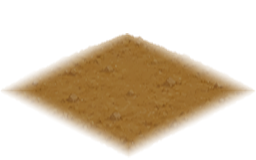
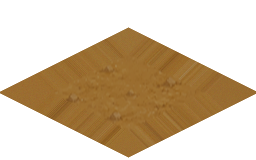
Fix isometric tile borders: remove discolored edges and apply seamless master diamond mask across Playa, Aldea, Hielo, Nieve, Rio, and Cementerio

Changed region(s): [[0.0, 0.1562, 1.0, 1.0]]

diff --git a/js/main.js b/js/main.js
@@ -292,34 +292,34 @@ const imageUrls = {
     tile_grass_forest: 'Biomas/Tiles/hd/grass_forest.png',
     tile_grass_gold: 'Biomas/Tiles/hd/grass_gold.png',
     tile_grass_olive: 'Biomas/Tiles/hd/grass_olive.png',
-    tile_dirt_1: 'Biomas/Tiles/hd/dirt_1.png',
-    tile_dirt_2: 'Biomas/Tiles/hd/dirt_2.png',
-    tile_dirt_cracked: 'Biomas/Tiles/hd/dirt_cracked.png',
-    tile_water_1: 'Biomas/Tiles/hd/water_1.png',
-    tile_water_2: 'Biomas/Tiles/hd/water_2.png',
-    tile_water_lily: 'Biomas/Tiles/hd/water_lily.png',
-    tile_sand_1: 'Biomas/Tiles/hd/sand_1.png',
-    tile_sand_2: 'Biomas/Tiles/hd/sand_2.png',
-    tile_sand_flat: 'Biomas/Tiles/hd/sand_flat.png',
-    tile_sand_pebble: 'Biomas/Tiles/hd/sand_pebble.png',
-    tile_sand_tuft: 'Biomas/Tiles/hd/sand_tuft.png',
-    tile_desert_cracked: 'Biomas/Tiles/hd/desert_cracked.png',
-    tile_desert_shrub: 'Biomas/Tiles/hd/desert_shrub.png',
-    tile_cemetery_1: 'Biomas/Tiles/hd/cemetery_1.png',
-    tile_cemetery_2: 'Biomas/Tiles/hd/cemetery_2.png',
-    tile_cemetery_skull: 'Biomas/Tiles/hd/cemetery_skull.png',
-    tile_snow_1: 'Biomas/Tiles/hd/snow_1.png',
-    tile_snow_2: 'Biomas/Tiles/hd/snow_2.png',
-    tile_snow_tuft: 'Biomas/Tiles/hd/snow_tuft.png',
-    tile_ice_1: 'Biomas/Tiles/hd/ice_1.png',
-    tile_ice_2: 'Biomas/Tiles/hd/ice_2.png',
-    tile_ice_crystal: 'Biomas/Tiles/hd/ice_crystal.png',
+    tile_dirt_1: 'Biomas/Tiles/hd/dirt_1.png?v=20261111tiles',
+    tile_dirt_2: 'Biomas/Tiles/hd/dirt_2.png?v=20261111tiles',
+    tile_dirt_cracked: 'Biomas/Tiles/hd/dirt_cracked.png?v=20261111tiles',
+    tile_water_1: 'Biomas/Tiles/hd/water_1.png?v=20261111tiles',
+    tile_water_2: 'Biomas/Tiles/hd/water_2.png?v=20261111tiles',
+    tile_water_lily: 'Biomas/Tiles/hd/water_lily.png?v=20261111tiles',
+    tile_sand_1: 'Biomas/Tiles/hd/sand_1.png?v=20261111tiles',
+    tile_sand_2: 'Biomas/Tiles/hd/sand_2.png?v=20261111tiles',
+    tile_sand_flat: 'Biomas/Tiles/hd/sand_flat.png?v=20261111tiles',
+    tile_sand_pebble: 'Biomas/Tiles/hd/sand_pebble.png?v=20261111tiles',
+    tile_sand_tuft: 'Biomas/Tiles/hd/sand_tuft.png?v=20261111tiles',
+    tile_desert_cracked: 'Biomas/Tiles/hd/desert_cracked.png?v=20261111tiles',
+    tile_desert_shrub: 'Biomas/Tiles/hd/desert_shrub.png?v=20261111tiles',
+    tile_cemetery_1: 'Biomas/Tiles/hd/cemetery_1.png?v=20261111tiles',
+    tile_cemetery_2: 'Biomas/Tiles/hd/cemetery_2.png?v=20261111tiles',
+    tile_cemetery_skull: 'Biomas/Tiles/hd/cemetery_skull.png?v=20261111tiles',
+    tile_snow_1: 'Biomas/Tiles/hd/snow_1.png?v=20261111tiles',
+    tile_snow_2: 'Biomas/Tiles/hd/snow_2.png?v=20261111tiles',
+    tile_snow_tuft: 'Biomas/Tiles/hd/snow_tuft.png?v=20261111tiles',
+    tile_ice_1: 'Biomas/Tiles/hd/ice_1.png?v=20261111tiles',
+    tile_ice_2: 'Biomas/Tiles/hd/ice_2.png?v=20261111tiles',
+    tile_ice_crystal: 'Biomas/Tiles/hd/ice_crystal.png?v=20261111tiles',
     tile_magic_1: 'Biomas/Tiles/hd/magic_1.png',
     tile_magic_2: 'Biomas/Tiles/hd/magic_2.png',
     tile_magic_short: 'Biomas/Tiles/hd/magic_short.png',
-    tile_marsh_1: 'Biomas/Tiles/hd/marsh_1.png',
-    tile_marsh_2: 'Biomas/Tiles/hd/marsh_2.png',
-    tile_marsh_cracked: 'Biomas/Tiles/hd/marsh_cracked.png'
+    tile_marsh_1: 'Biomas/Tiles/hd/marsh_1.png?v=20261111tiles',
+    tile_marsh_2: 'Biomas/Tiles/hd/marsh_2.png?v=20261111tiles',
+    tile_marsh_cracked: 'Biomas/Tiles/hd/marsh_cracked.png?v=20261111tiles'
 };
 
 function loadImage(url) {

diff --git a/js/renderer.js b/js/renderer.js
@@ -1516,11 +1516,11 @@ export class Renderer {
                 return a.x - b.x;
             });
 
-            // Tamaño calibrado para ajuste perfecto de rombos (34px con solapamiento milimétrico sin huecos)
-            const drawW = 34.0;
+            // Tamaño calibrado para ajuste perfecto de rombos (con solapamiento milimétrico sin huecos ni bordes)
+            const drawW = 33.2;
             const drawH = drawW * (160.0 / 256.0);
             const anchorX = drawW / 2.0;
-            const anchorY = drawH * (94.0 / 160.0);
+            const anchorY = drawH * (92.0 / 160.0);
 
             for (const item of cellsToDraw) {
                 const { cx, cy } = this.getIsoBase(item.x, item.y);

diff --git a/index.html b/index.html
@@ -169,6 +169,6 @@
     </div>
 
     <!-- Cargar todos los scripts modulares -->
-    <script type="module" src="js/main.js?v=20261111pers"></script>
+    <script type="module" src="js/main.js?v=20261111tiles"></script>
 </body>
 </html>
